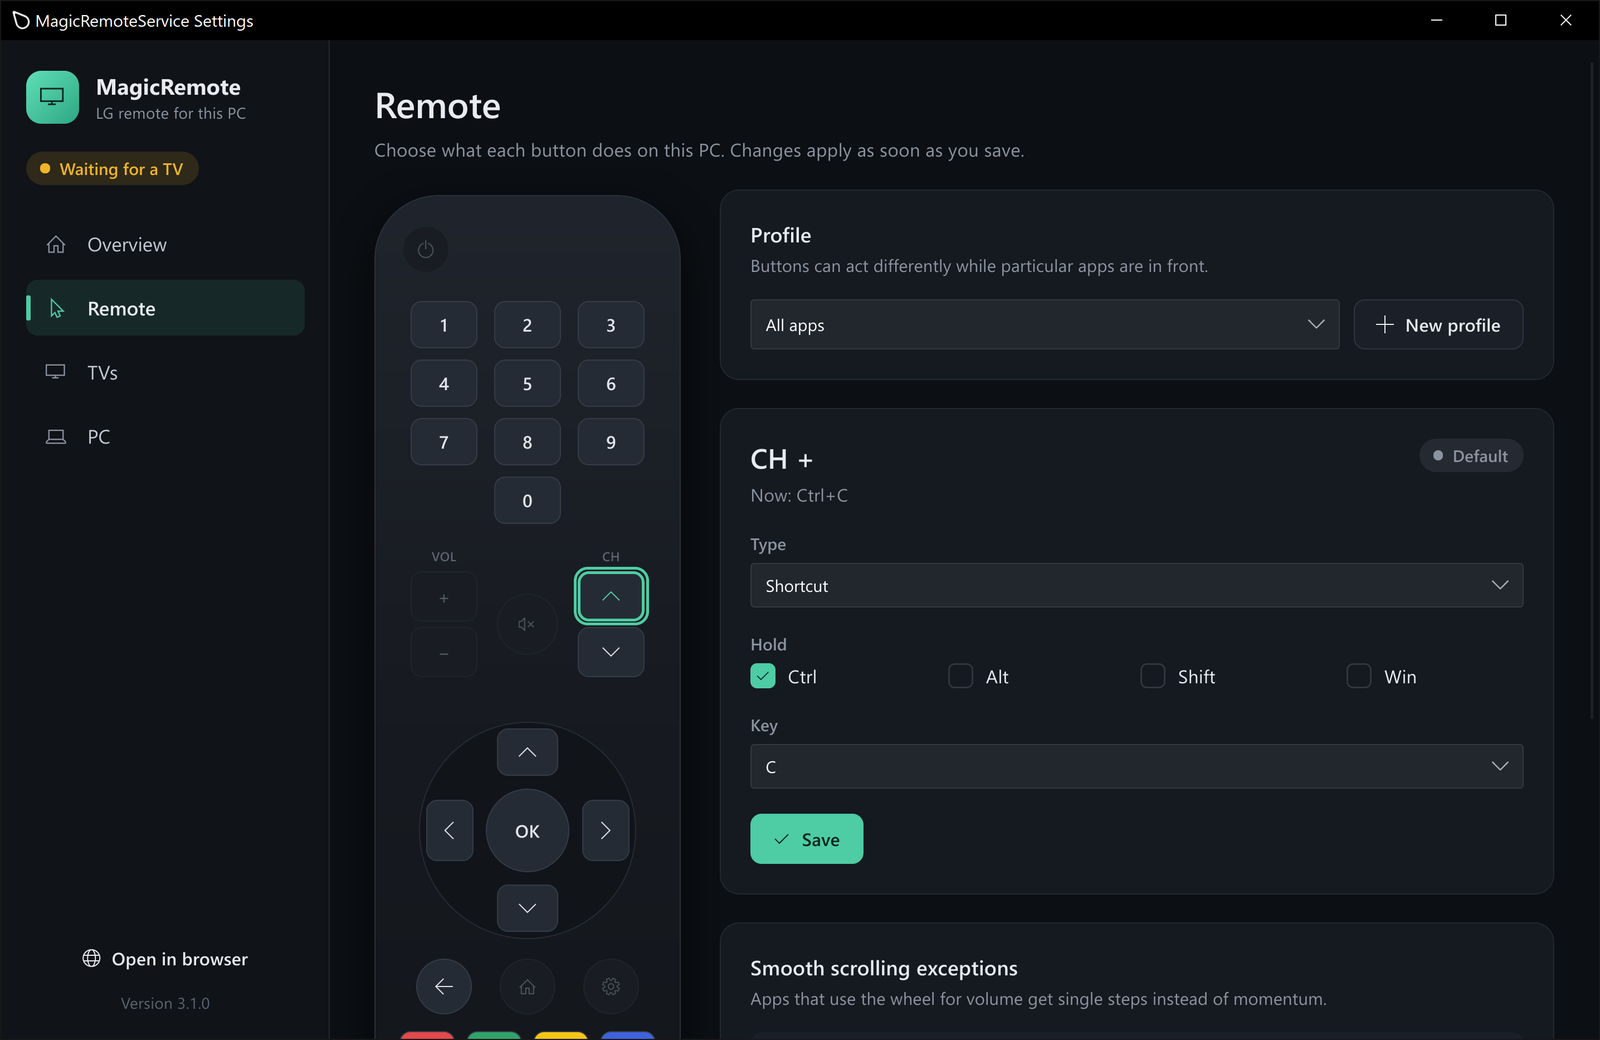
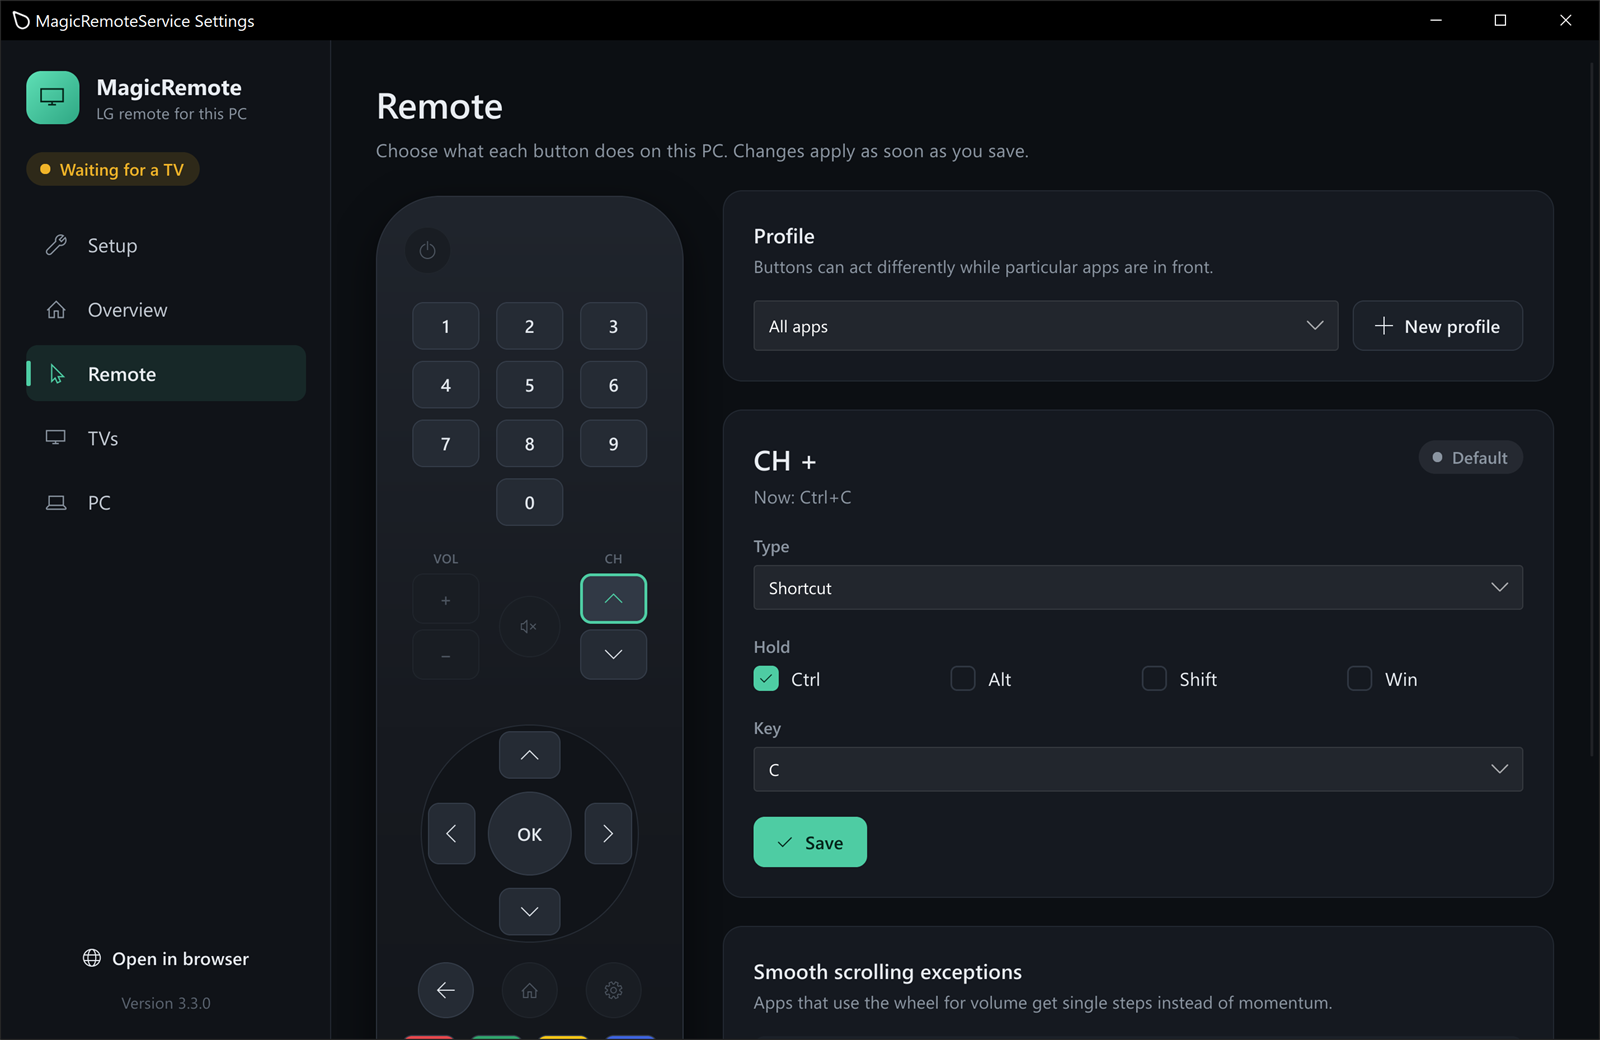
Release 3.3.0: README for the self-contained exe
- Requirements: Windows 10 or 11 with nothing else to install. The OpenSSH
  Client (and so Windows 10 1809) and the Visual C++ runtime are no longer
  needed; the network should be one Windows calls Private, which Setup offers
  to change.
- Setup's Public-network notice in Quick start, the Settings table and
  Troubleshooting, in place of the "OpenSSH Client isn't installed" row.
- How it works: the SSH client is built into the exe.
- The device token comes from Setup; Troubleshooting points to the settings
  rather than the installer; the private-network command is listed.
- The hardware tests are described as they are now, without the cargo build
  they needed for the askpass helper.
- A new screenshot with the Setup page in the sidebar and the current version.
- Version 3.3.0 and its release history line.

diff --git a/README.md b/README.md
@@ -21,19 +21,19 @@ Point, click, scroll and type from the couch. Written in Rust.
 
 - **Feels like a mouse** — wave the remote to move the pointer. OK clicks, a long press right-clicks, the wheel scrolls with momentum, and the TV's keyboard types.
 - **Every button is yours** — map any button to a click, a key, a shortcut, a command or a TV action, and give apps such as VLC their own layout.
-- **Set up from the PC** — pair the TV and install its app in seconds. No Node.js, no webOS CLI.
+- **Set up from the PC** — run the exe and Setup installs the service, finds your TV, pairs it and installs its app, in three steps.
 - **Tune it live** — cursor speed, scroll speed and long-press time reach the TV the moment you save.
 - **Stays out of the way** — one small Windows service. It starts with Windows, wakes the PC from the TV, and can shut it down when you're done.
-- **Written in Rust** — one self-contained exe, with no .NET or Node.js to install. Its settings window is native too, built with [Slint](https://slint.dev).
+- **Written in Rust** — one self-contained exe with its own SSH client, so there's nothing else to install: no .NET, Node.js, webOS CLI, OpenSSH or Visual C++ runtime. Its settings window is native too, built with [Slint](https://slint.dev).
 - **Private by design** — other devices on your network can't take over the PC, and the settings are only reachable from the PC itself.
 
 ## Quick start
 
 | You need | |
 |---|---|
-| **A PC** | Windows 10 (1809 or later) or Windows 11, connected to the TV over HDMI |
+| **A PC** | Windows 10 or 11, connected to the TV over HDMI |
 | **A TV** | An LG TV with webOS (tested on the C2 and C1) and the free [Developer Mode app](https://webostv.developer.lge.com/develop/getting-started/developer-mode-app), which needs an LG developer account |
-| **A network** | The PC and the TV on the same local network |
+| **A network** | The PC and the TV on the same home network, which Windows calls Private (Setup offers to change it) |
 
 1. **Prepare the TV.** Install the Developer Mode app from the LG Content Store, sign in, and turn on **Dev Mode Status** and **Key Server**. The app shows a passphrase: keep it on screen.
 2. **Run the app on the PC.** Download `MagicRemoteService.exe` from the [latest release](https://github.com/roko-tech/MagicRemoteService-Rust/releases/latest) and double-click it. The settings open on **Setup**.
@@ -41,6 +41,8 @@ Point, click, scroll and type from the couch. Written in Rust.
    - **Install** — click it and approve the Windows prompt. It installs a Windows service, so the remote works from the moment Windows starts.
    - **Pair your TV** — your TV is found on the network by itself: pick it and type the passphrase.
    - **Install the TV app** — pick the HDMI input the PC is plugged into, and click **Install on the TV**.
+
+   If Windows calls your network Public, its firewall keeps the TV out: Setup says so and makes it Private in one click.
 4. **Turn Key Server off** in the Developer Mode app. It's only needed while pairing.
 
 Then open the app on the TV, or switch the TV to the PC's input, and point.
@@ -87,11 +89,11 @@ Every button can be changed in the [settings](#settings).
 
 ## Settings
 
-Double-click the tray icon to open the settings. The window runs as you, never with the service's rights, and works with the keyboard and screen readers. The same settings are at <http://localhost:41231> in a browser on the PC.
+Run `MagicRemoteService.exe` again, or double-click the tray icon, to open the settings. The window runs as you, never with the service's rights, and works with the keyboard and screen readers. The same settings are at <http://localhost:41231> in a browser on the PC.
 
 | Page | What you can do |
 |---|---|
-| **Setup** | Install or update the service, find and pair your TV, and install the TV app, in three steps. It opens first until they're done. |
+| **Setup** | Install or update the service, find and pair your TV, and install the TV app, in three steps. It also makes a Public network Private, and opens first until everything is done. |
 | **Overview** | See whether the service is running, each connected TV (connected for, last input, latency, activity counts, never which keys or text) and recent events. |
 | **Remote** | Pick a button on the drawn remote and map it to a mouse click, a key, a shortcut (Ctrl+C, Alt+Tab, Win+D…), a command, or a TV action. Create **profiles** so buttons act differently while particular apps are in front, and list apps that should scroll one step at a time. |
 | **TVs** | Pair a TV, choose the default one, or unpair it. Set up the TV app: the HDMI input, the network, the port, and the cursor speed, scroll speed and long-press time, which apply at once. **Reinstall TV App** builds and installs it on the default TV. |
@@ -110,12 +112,12 @@ flowchart LR
 
 - **One exe, three roles.** The service starts with Windows and keeps the worker running. The worker listens for the TV on TCP 41230, answers its network search on UDP 1900, serves the settings on 127.0.0.1:41231 and moves the pointer with `SendInput`. The settings window is the same exe, started as you.
 - **On the TV,** the app (`tv/app`) captures the remote and talks to the PC. A small service (`tv/service`) finds the PC, wakes it, and relaunches the app when you switch to the PC's input.
-- **Installing the TV app** needs no developer tools: the service builds the package itself and installs it through the TV's Developer Mode, with the SSH client built into Windows.
+- **Installing the TV app** needs no developer tools: the service builds the package itself and installs it through the TV's Developer Mode, with an SSH client built into the exe.
 - **Settings** are kept in `C:\Program Files\MagicRemoteService` (`bindings.json`, `tv-config.json`, and paired TVs in `tvs.json` with their keys) and in `HKLM\SOFTWARE\WOW6432Node\MagicRemoteService`. **Logs** go to Event Viewer (Application, source MagicRemoteService) and to the Overview page.
 
 ## Security
 
-- **Only your TVs.** A TV must present the device token the installer generates; other devices on the network are refused. **New token** on the TVs page replaces it.
+- **Only your TVs.** A TV must present the device token Setup creates; other devices on the network are refused. **New token** on the TVs page replaces it.
 - **Only this PC can change settings.** The API listens on loopback, refuses other host names and cross-site requests, and never reveals the token or a TV's passphrase.
 - **Least privilege.** The settings window, command bindings and the browser run as you. The service runs from Program Files, where only administrators can change files.
 - **Secrets stay with the service.** The token, TV keys and passphrases are readable only by SYSTEM and administrators.
@@ -138,13 +140,13 @@ flowchart LR
 
 | Problem | What to do |
 |---|---|
-| The TV can't reach the PC after its IP changed | On the TVs page, choose the network, **Save** and **Reinstall TV App**, or run the installer again ("TV app only"). A DHCP reservation in your router stops it changing. |
+| The TV can't reach the PC after its IP changed | On the TVs page, choose the network, **Save** and **Reinstall TV App**. A DHCP reservation in your router stops it changing. |
 | The TV keeps retrying; Overview shows "invalid or missing token" | The TV app carries an old token: click **Reinstall TV App**. |
 | The settings say the service isn't answering | Start the service, then **Try again**. `MagicRemoteService.exe status` shows its state. |
 | Pairing can't reach the key server | Turn on **Key Server** in the TV's Developer Mode app, and check the IP. |
 | Reinstall TV App can't reach the TV | Turn the TV on and check **Dev Mode Status** in the Developer Mode app; the session runs out unless you extend it there. |
 | The TV refused the key, or isn't the TV that was paired | Developer Mode was reinstalled or the TV was reset: pair it again on the TVs page. |
-| "The OpenSSH Client isn't installed" | Add it under Settings › System › Optional features. |
+| Setup says Windows calls your network public | Click **Make … private**: the firewall lets the TV in on private networks only. Do it only on a network you trust, such as your home's. |
 | The pointer doesn't move but scrolling works | Wave the remote at the TV to wake the gyroscope; the app retries every 3 seconds. |
 | "Service is busy" or "not running" on the TV | Restart the TV, then open the app again. |
 | "Failed to get sensor data [1003]" | Normal on webOS 25; the app retries in the background. |
@@ -160,6 +162,7 @@ flowchart LR
 | `MagicRemoteService.exe install` | Copy the exe to `C:\Program Files\MagicRemoteService` and install or update the service from there (administrator) |
 | `MagicRemoteService.exe uninstall` | Stop and remove the service (administrator) |
 | `MagicRemoteService.exe status` | Show the service's state, port and connected TVs |
+| `MagicRemoteService.exe private-network <id>` | Make that network Private, so the firewall lets the TV in (administrator; Setup runs it for you) |
 | `MagicRemoteService.exe` | Open the settings (which set everything up the first time) |
 | `MagicRemoteService.exe --standalone` | Run on its own with a tray icon, without the service |
 | `MagicRemoteService.exe --port 41330 --no-ssdp` | Run a second copy beside the service, to try a build |
@@ -175,7 +178,7 @@ cargo test
 cargo build --release   # target\release\MagicRemoteService.exe
 ```
 
-`cargo test -- --ignored` (after `cargo build`) also runs two tests that need real hardware: one reads the default audio device; the other installs a throwaway copy of the TV app on the TV set up in the webOS CLI, checks the TV lists it, and removes it.
+`cargo test -- --ignored` also runs the tests that need real hardware. They read this PC's audio device and networks and search the network for TVs. On the TV set up in the webOS CLI, they sign in, pair (with Key Server on), and install, list and remove a throwaway copy of the TV app.
 
 ```
 src/          the PC service, in Rust
@@ -192,6 +195,7 @@ Every push runs formatting, lint and tests in CI. Pushing a `v*` tag publishes a
 
 ## Release history
 
+- **3.3** — everything in one exe: the SSH client and the C runtime are built in, so a new PC needs nothing else installed. Setup spots a Public network and makes it Private in one click.
 - **3.2** — guided setup: run the exe and the settings install the service, find your TV on the network, pair it and install the TV app in three steps, and offer updates; one click is enough everywhere in the settings window.
 - **3.1** — a native settings window; the TV app installed without Node.js, with pairing in the settings and the installer; cursor speed, scroll speed and long press applied live; per-app profiles; per-TV diagnostics; a heartbeat so the TV notices a PC that went quiet; the device token kept inside the service.
 - **3.0** — the PC side rebuilt in Rust: one exe with no .NET, a supervisor that restarts its worker, and settings that apply without a restart.
